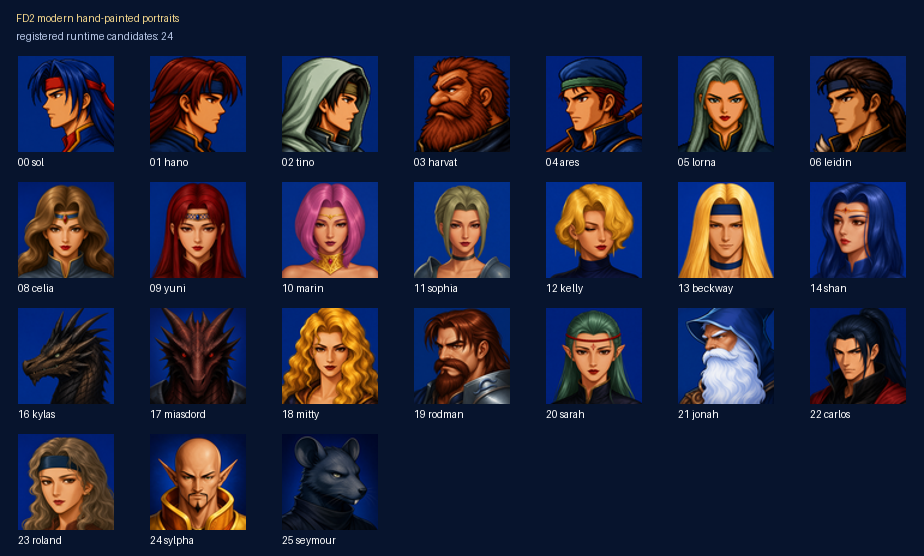
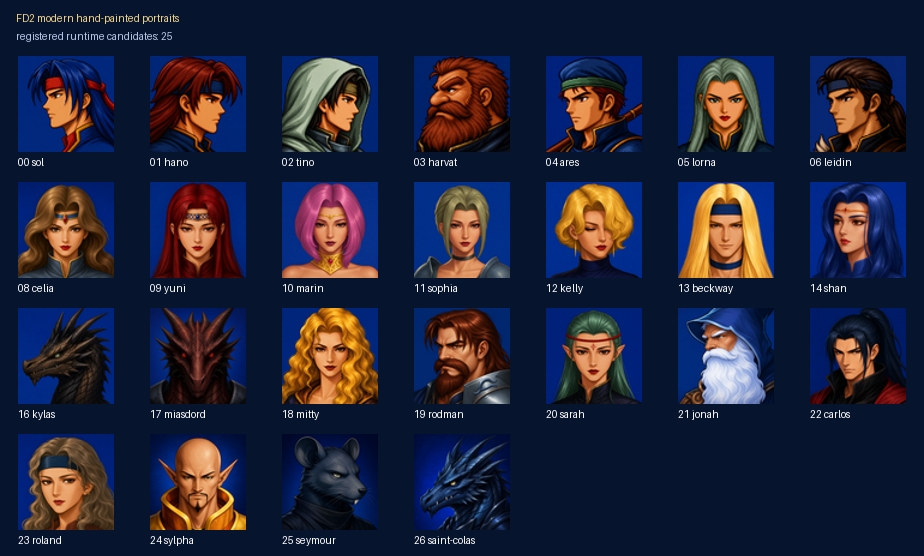
feat: 新增聖寇拉斯並續審第二章四語

Changed region(s): [[0.4242, 0.7644, 0.5758, 0.9784]]

diff --git a/remake/cmd/fd2/story_locale_test.go b/remake/cmd/fd2/story_locale_test.go
@@ -74,6 +74,18 @@ func TestReviewedChapterTwoCampaignTranslationsAndItemEntities(t *testing.T) {
 			"legacy.json.remake.assets.scenarios.campaign_full.nodes.town_ch02.options.2.label":     "出口：出撃準備",
 			"legacy.json.remake.assets.scenarios.campaign_full.nodes.town_ch02.town":                "ロード",
 			"legacy/story/5bf145f103fe/ch02/title":                                                  "第2章 ― ロードの盗賊団",
+			"legacy/line/5bf145f103fe/scenes/0/lines/0/speaker-name":                                "アレス",
+			"legacy/line/5bf145f103fe/scenes/0/lines/0/text":                                        "ロードに到着した。沿岸で最も栄えた町らしい。ここで少し休み、酒場で情報を集めよう……",
+			"legacy/line/5bf145f103fe/scenes/0/lines/1/speaker-name":                                "ソール",
+			"legacy/line/5bf145f103fe/scenes/0/lines/1/text":                                        "アレス、君の情報は間違っていたようだ。ここには人っ子一人いない。まるでゴーストタウンだ！",
+			"legacy/line/5bf145f103fe/scenes/0/lines/2/speaker-name":                                "ユニ",
+			"legacy/line/5bf145f103fe/scenes/0/lines/2/text":                                        "こ、怖い……",
+			"legacy/line/5bf145f103fe/scenes/0/lines/3/speaker-name":                                "ハノ",
+			"legacy/line/5bf145f103fe/scenes/0/lines/3/text":                                        "おかしいな。前に親父と酒を買いに来たときは、町はずいぶん賑わっていたのに……",
+			"legacy/line/5bf145f103fe/scenes/0/lines/4/speaker-name":                                "村人",
+			"legacy/line/5bf145f103fe/scenes/0/lines/4/text":                                        "盗賊だ！早く逃げろ！",
+			"legacy/line/5bf145f103fe/scenes/0/lines/5/speaker-name":                                "ソール",
+			"legacy/line/5bf145f103fe/scenes/0/lines/5/text":                                        "待ってくれ！俺たちは盗賊じゃない！",
 		},
 		"en": {
 			"legacy.json.remake.assets.scenarios.campaign_full.nodes.preparation_ch02.prompt":       "Enter the battlefield?",
@@ -86,6 +98,18 @@ func TestReviewedChapterTwoCampaignTranslationsAndItemEntities(t *testing.T) {
 			"legacy.json.remake.assets.scenarios.campaign_full.nodes.town_ch02.options.2.label":     "Exit: Battle Preparations",
 			"legacy.json.remake.assets.scenarios.campaign_full.nodes.town_ch02.town":                "Rhodes",
 			"legacy/story/5bf145f103fe/ch02/title":                                                  "Chapter II — The Bandits of Rhodes",
+			"legacy/line/5bf145f103fe/scenes/0/lines/0/speaker-name":                                "Ares",
+			"legacy/line/5bf145f103fe/scenes/0/lines/0/text":                                        "We have arrived in Rhodes. I hear this is the most prosperous town on the coast. We can rest here and ask around at the tavern for news...",
+			"legacy/line/5bf145f103fe/scenes/0/lines/1/speaker-name":                                "Sol",
+			"legacy/line/5bf145f103fe/scenes/0/lines/1/text":                                        "Ares, I think your information was wrong. There isn't a soul here—it looks like a ghost town!",
+			"legacy/line/5bf145f103fe/scenes/0/lines/2/speaker-name":                                "Yuni",
+			"legacy/line/5bf145f103fe/scenes/0/lines/2/text":                                        "This is scary...",
+			"legacy/line/5bf145f103fe/scenes/0/lines/3/speaker-name":                                "Hano",
+			"legacy/line/5bf145f103fe/scenes/0/lines/3/text":                                        "That's strange. The last time Dad and I came here to buy drinks, the town was bustling. How could this have happened...?",
+			"legacy/line/5bf145f103fe/scenes/0/lines/4/speaker-name":                                "Villager",
+			"legacy/line/5bf145f103fe/scenes/0/lines/4/text":                                        "The bandits are here! Run!",
+			"legacy/line/5bf145f103fe/scenes/0/lines/5/speaker-name":                                "Sol",
+			"legacy/line/5bf145f103fe/scenes/0/lines/5/text":                                        "Wait! We're not bandits!",
 		},
 		"zh-Hans": {
 			"legacy.json.remake.assets.scenarios.campaign_full.nodes.preparation_ch02.prompt":       "要进入战场吗？",
@@ -98,6 +122,18 @@ func TestReviewedChapterTwoCampaignTranslationsAndItemEntities(t *testing.T) {
 			"legacy.json.remake.assets.scenarios.campaign_full.nodes.town_ch02.options.2.label":     "出口：出战整备",
 			"legacy.json.remake.assets.scenarios.campaign_full.nodes.town_ch02.town":                "罗德镇",
 			"legacy/story/5bf145f103fe/ch02/title":                                                  "第二章——罗德镇的强盗团",
+			"legacy/line/5bf145f103fe/scenes/0/lines/0/speaker-name":                                "亚雷斯",
+			"legacy/line/5bf145f103fe/scenes/0/lines/0/text":                                        "我们已经抵达罗德镇了。听说这里是沿岸最繁荣的城镇，我们可以在这里歇一下，顺便到酒馆里打听一下消息……",
+			"legacy/line/5bf145f103fe/scenes/0/lines/1/speaker-name":                                "索尔",
+			"legacy/line/5bf145f103fe/scenes/0/lines/1/text":                                        "亚雷斯，我看你的情报有误，这里连半个人都没有，倒像是一座鬼城！",
+			"legacy/line/5bf145f103fe/scenes/0/lines/2/speaker-name":                                "悠妮",
+			"legacy/line/5bf145f103fe/scenes/0/lines/2/text":                                        "好可怕……",
+			"legacy/line/5bf145f103fe/scenes/0/lines/3/speaker-name":                                "哈诺",
+			"legacy/line/5bf145f103fe/scenes/0/lines/3/text":                                        "这可怪了，上次我和老爹来这里买酒的时候，镇上还热闹得很啊！怎么会……",
+			"legacy/line/5bf145f103fe/scenes/0/lines/4/speaker-name":                                "村民",
+			"legacy/line/5bf145f103fe/scenes/0/lines/4/text":                                        "啊！强盗来了！快逃啊！",
+			"legacy/line/5bf145f103fe/scenes/0/lines/5/speaker-name":                                "索尔",
+			"legacy/line/5bf145f103fe/scenes/0/lines/5/text":                                        "等等！我们不是强盗！",
 		},
 	}
 	itemWants := map[string]map[int]string{

diff --git a/docs/knowledge-base/91-worklist.md b/docs/knowledge-base/91-worklist.md
@@ -37,7 +37,7 @@
 | A2 | 原版素材全量分離與清冊 | `RELEASE-DATA-READY／RESEARCH-PARTIAL`：manifest v2現有39,825筆asset與1,005筆source-resource ledger；901 standardized、11個零長度confirmed-empty、0 blocked、93 unknown。完整本機包有40,127個實體檔案、約104 MB，已於私人庫保存。2026-08-30 `v0.1.1` Linux／Windows本機完整版均為42,258個檔案，macOS為42,332個檔案；三者均綁定engine head `be9a2a77`、通過manifest驗證並標示不可公開。三平台原生公開候選與雜湊也由GitHub Actions重建成功。公開README新增33張完整戰場低解析索引、96組sprite與96組portrait代表幀，不公開可重組逐檔素材。正式`Game` caller未發現93筆unknown有直接archive consumer，因此它們不阻擋第一版 | Windows／macOS實機抽測。只有新證據找到正式consumer才重開unknown，FDOTHER #47／#49不猜接 |
 | A3 | runtime 移除 `.DAT` 即時讀取 | `RUNTIME-E1-PARTIAL`：FDTXT、字型、FDICON、FDSHAP、ANI、FDFIELD主要玩家路徑，以及城鎮、商店、標題、LOAD、整備、教會與戰場初始化均已遷移。19個巢狀音效bank已分離；標題#77選單音與ANI #1的#78 companion均由正式runtime消費。2026-08-29 caller稽核未發現正式`Game`仍直接讀原版archive，`FD2_ORIGINAL_FDOTHER`／`DATO` locator亦已移到測試專用檔，正式binary字串檢查通過；archive adapter只留source-oracle。BGM只從完整驗證的30份OGG catalog解析，物理攻擊亦由分離FIGANI provider原子預檢 | 以version 2 ledger的93筆unknown交叉核對是否有尚未登記的玩家consumer；已具標準資料但缺manifest bridge者只補provenance。沒有正式caller的oracle helper不再列為runtime缺口；只有新證據證明正式consumer存在才重開RE→spec→runtime切片 |
 | A4 | 現代美術主題 | `PROTOTYPE-SET／DATA-CONTRACT-READY／RUNTIME-E1-PARTIAL`：索爾、哈諾、鐵諾、哈瓦特、亞雷斯、洛娜與萊汀的獨立閉嘴頭像母稿／80×80候選、第一關戰場與戰鬥HUD三張style A本機私有稿均已產生；受版控`themes/modern/catalog.json`保存穩定asset ID、來源、尺寸與SHA-256。七位speaker已接入顯式`FD2_THEME`正式對話consumer；身分／speaker／雜湊／尺寸／不透明契約任一不符即原子拒絕。2026-08-31 身分勘誤：`DATO_001 / speaker 1` 是哈諾，不是亞雷斯；亞雷斯是 `DATO_004 / speaker 4`。錯誤檔名與清冊已修正且未改哈諾像素，並已另產生正確亞雷斯候選。本輪另勘誤`0x9017`為下框右緣錨點，實際左上角是`(8,115)`。FDICON selector 0與68現各有12張`24×24`二值alpha候選與逐格雜湊；索爾基礎selector是0，68則不是固定角色身分，晚期悠妮資料曾使用`0x44`。兩組都用中性的`modern.fdicon.group_NNN.style_a`命名，正式 loader 會原子預檢24檔、雜湊、尺寸、alpha與週期後取代正規化`g.sprites[0]`／`[68]`。selector 0母稿依原版12格生成並確定性裁切；selector 68的雙劍稿已拒收，第11格改為可重現像素合成。原生indexed compositor尚未接真彩覆蓋；直接疊最終畫面會錯蓋foreground，同色寫入也不能靠diff推回mask，因此維持失敗即關閉。規格見`61-modern-theme-runtime-spec.md`。戰場與HUD仍是concept | 擴充native foreground write-mask契約；同時抽測七位現代頭像的正常故事上／下框，再依穩定speaker身分繼續逐角色產生候選。map0 tile ID與FDOTHER HUD cells仍須各自建立基準，不能從合成概念圖反切 |
-| A5 | 繁中／簡中／日文／英文與可調文字顯示 | `DATA-READY（5,176筆／語）＋RUNTIME-E1-PARTIAL`：實檔 `entry_count` 四語均為5,176；先前5,205為過期斷言，已依目前完整內容包修正。35份劇本共1,564句具穩定 `line_id`；正式 story、handler dialog及事件61／75／76均查詢四語內容。非繁中原生 indexed 對話已重建安全分頁並依裁決固定閉嘴。FDTXT清冊現涵蓋200個可顯示物品與15個confirmed-empty ID；32名角色、94筆戰鬥raw姓名、35筆非空指令與29筆職業均有四語實體目錄，職業26／27／28保留原版占位。轉職成功與後備確認介面會在mutation前預取四語角色／職業／句型。玩家／敵方共用指令與戰鬥姓名已由共用owner重畫；高頻戰鬥提示、法術結算、寶物／擊破獎勵、教會轉交／復活，以及戰場物品欄、可用性、選擇目標／目的地、回復／傷害／移位演出狀態均已接官方pack。物理攻擊結算若缺角色名與職業名會失敗即關閉，不再顯示硬編碼「攻方／目標」；`figName()` 僅供除錯日誌，不是玩家語系缺口。商店、旅館／出戰整備、勝敗／戰後整備、標題LOAD、教會服務，以及結局素材不足／可編輯結語提示均已移除硬編碼繁中；舊式戰場物品 fallback 的標題與空欄標記也會先原子取得語系文字再繪製。官方介面契約目前每語114鍵；F4會原子同步正式grid與SpellBook相容顯示。2026-08-31 人工審校現況為日文130句、英文121句、簡中98句；第二章已閉合首批商店、城鎮選項、關卡名稱、隊伍姓名、位置摘要與標題，日英實體清冊另以人工 override 固定9個高頻品項，其餘內容仍維持機器初稿標記，尚無正常玩家截圖 E2 | 接續第二章故事人工審校，再做四語正常玩家畫面。商店服務格已證實是純圖示，不列翻譯缺口；教會亂碼紋理屬UI codec／palette缺陷。4筆劇情身份歧義不與0–31隊伍顯示目錄合併；raw戰鬥姓名也不以`native_identity`替代 |
+| A5 | 繁中／簡中／日文／英文與可調文字顯示 | `DATA-READY（5,176筆／語）＋RUNTIME-E1-PARTIAL`：實檔 `entry_count` 四語均為5,176；先前5,205為過期斷言，已依目前完整內容包修正。35份劇本共1,564句具穩定 `line_id`；正式 story、handler dialog及事件61／75／76均查詢四語內容。非繁中原生 indexed 對話已重建安全分頁並依裁決固定閉嘴。FDTXT清冊現涵蓋200個可顯示物品與15個confirmed-empty ID；32名角色、94筆戰鬥raw姓名、35筆非空指令與29筆職業均有四語實體目錄，職業26／27／28保留原版占位。轉職成功與後備確認介面會在mutation前預取四語角色／職業／句型。玩家／敵方共用指令與戰鬥姓名已由共用owner重畫；高頻戰鬥提示、法術結算、寶物／擊破獎勵、教會轉交／復活，以及戰場物品欄、可用性、選擇目標／目的地、回復／傷害／移位演出狀態均已接官方pack。物理攻擊結算若缺角色名與職業名會失敗即關閉，不再顯示硬編碼「攻方／目標」；`figName()` 僅供除錯日誌，不是玩家語系缺口。商店、旅館／出戰整備、勝敗／戰後整備、標題LOAD、教會服務，以及結局素材不足／可編輯結語提示均已移除硬編碼繁中；舊式戰場物品 fallback 的標題與空欄標記也會先原子取得語系文字再繪製。官方介面契約目前每語114鍵；F4會原子同步正式grid與SpellBook相容顯示。2026-09-01 人工審校現況為日文142句、英文133句、簡中110句；第二章已閉合首批商店、城鎮選項、關卡名稱、隊伍姓名、位置摘要、標題及開場連續六句，日英實體清冊另以人工 override 固定9個高頻品項，其餘內容仍維持機器初稿標記，尚無正常玩家截圖 E2 | 接續第二章故事人工審校，再做四語正常玩家畫面。商店服務格已證實是純圖示，不列翻譯缺口；教會亂碼紋理屬UI codec／palette缺陷。4筆劇情身份歧義不與0–31隊伍顯示目錄合併；raw戰鬥姓名也不以`native_identity`替代 |
 
 > **2026-08-31 A5 商店四語追加：**除購買／出售結果四條交易路徑外，
 > **2026-08-31 A5 審校筆數勘誤：**上表的日文 24 句是上一批快照；本批再完成
@@ -153,10 +153,23 @@
 > `fd2-assets-private` 提交 `7e72b282` 已保存母稿與執行期 PNG；私人 manifest
 > 現為 75 個 catalog allow-list 檔案，逐檔大小與 SHA-256 驗證通過。
 >
+> **2026-09-01 A4 聖寇拉斯追加：**`DATO_026`、角色資料表的龍人／龍劍士欄位
+> 與四語隊伍姓名清冊共同確認聖寇拉斯；原版頭像呈現向左的深鋼藍龍首、狹長
+> 金色眼、後掠長角、頰頸棘刺、外露尖牙與藍色護甲。故事資料的 `speaker=26`
+> 存在跨場景身分混用，因此不以其總筆數支持角色身分。識別字依英文清冊採
+> `Saint Colas`；現代主題現有 25 位私有頭像候選。`fd2-assets-private` 提交
+> `7756d79e` 已保存母稿與執行期 PNG；私人 manifest 現為 77 個 catalog
+> allow-list 檔案，逐檔大小與 SHA-256 驗證通過。
+>
 > **2026-08-31 A5 第一章英文停止線：**第一章故事與事件只剩
 > `奈野啊捏?` 一句未審校；`Nano`、`Naino` 與日文 `ナイノ・フィニックス`
 > 均只有機器草稿，且沒有角色／實體清冊可定案。此句維持 `machine_draft`，
 > 不把未證實音譯升格為正式英文。
+>
+> **2026-09-01 A5 第二章故事續審：**第二章第一個場景的前六句及其說話者
+> 名稱已完成日文、英文與簡中人工審校，共新增每語 12 筆 `reviewed`。英文人名
+> 依既定實體清冊固定為 `Sol`，不沿用機器初稿 `Sole`；簡中仍使用「悠妮」。
+> 三語其餘機器初稿不得因本批局部完成而升格。
 >
 > **2026-08-31 A5 商店四語追加：**除購買／出售結果四條交易路徑外，
 > 正規化商店的購買／出售標題、裝備標記、收件角色欄位與操作提示另有

diff --git a/docs/knowledge-base/61-modern-theme-runtime-spec.md b/docs/knowledge-base/61-modern-theme-runtime-spec.md
@@ -204,6 +204,15 @@
   最近鄰放大後確認為深藍灰毛鼠人忍者，保留大型圓鼠耳、向右三分之二側面、
   細長鼠吻、黑鼻、長鬍鬚、警覺淺色眼、外露門牙及深色忍者高領；凱拉斯
   現代母稿只作非人類材質完成度參考，不帶入龍角、鱗片或龍吻。
+- `modern.saint-colas.portrait.style_a.frame0`
+- 執行期檔：`saint-colas-portrait-style-a-v1-80.png`，`80×80`，SHA-256
[1 lines of base64/hex data omitted]
+- 母稿：`saint-colas-portrait-style-a-v1-master.png`，`1254×1254`；角色身分由
+  `DATO_026_m0`、角色資料表的龍人／龍劍士欄位，以及四語隊伍姓名清冊共同確認
+  為聖寇拉斯（`Saint Colas`）。人工影像檢視保留原版向左的深鋼藍龍首、狹長
+  金色眼、後掠長角、頰部與頸部棘刺、外露尖牙及藍色護甲。故事資料中的
+  `speaker=26` 尚存在跨場景身分混用，不能把其總筆數當成聖寇拉斯對話證據；
+  正式載入仍依 catalog 的明確 `speaker_id` 契約失敗即關閉。
 - `modern.tino.portrait.style_a.frame0`
 - 執行期檔：`tino-portrait-style-a-v1-80.png`，`80×80`，SHA-256
[1 lines of base64/hex data omitted]
